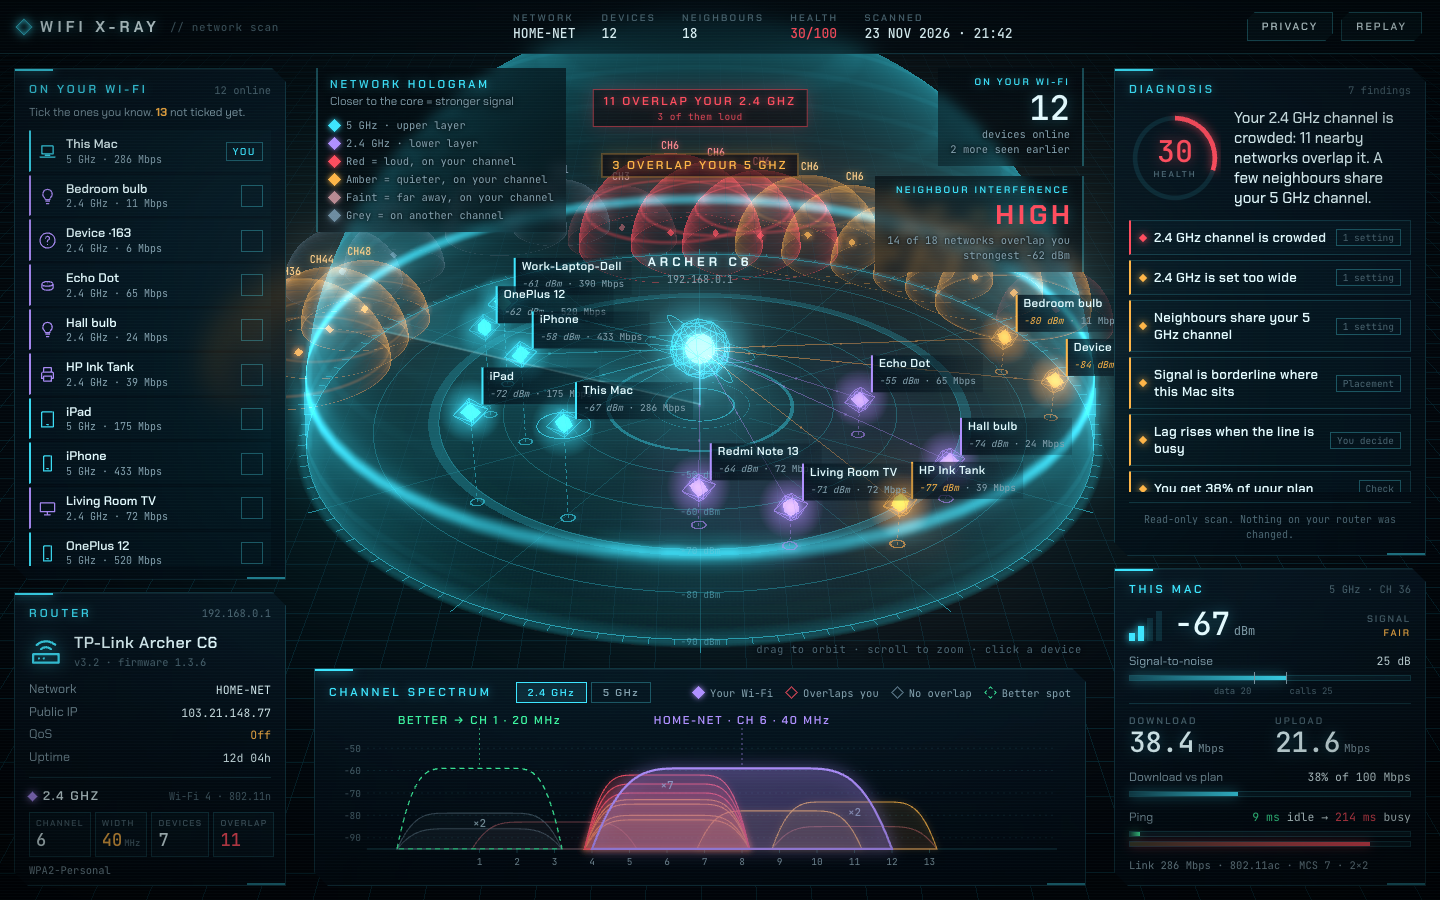
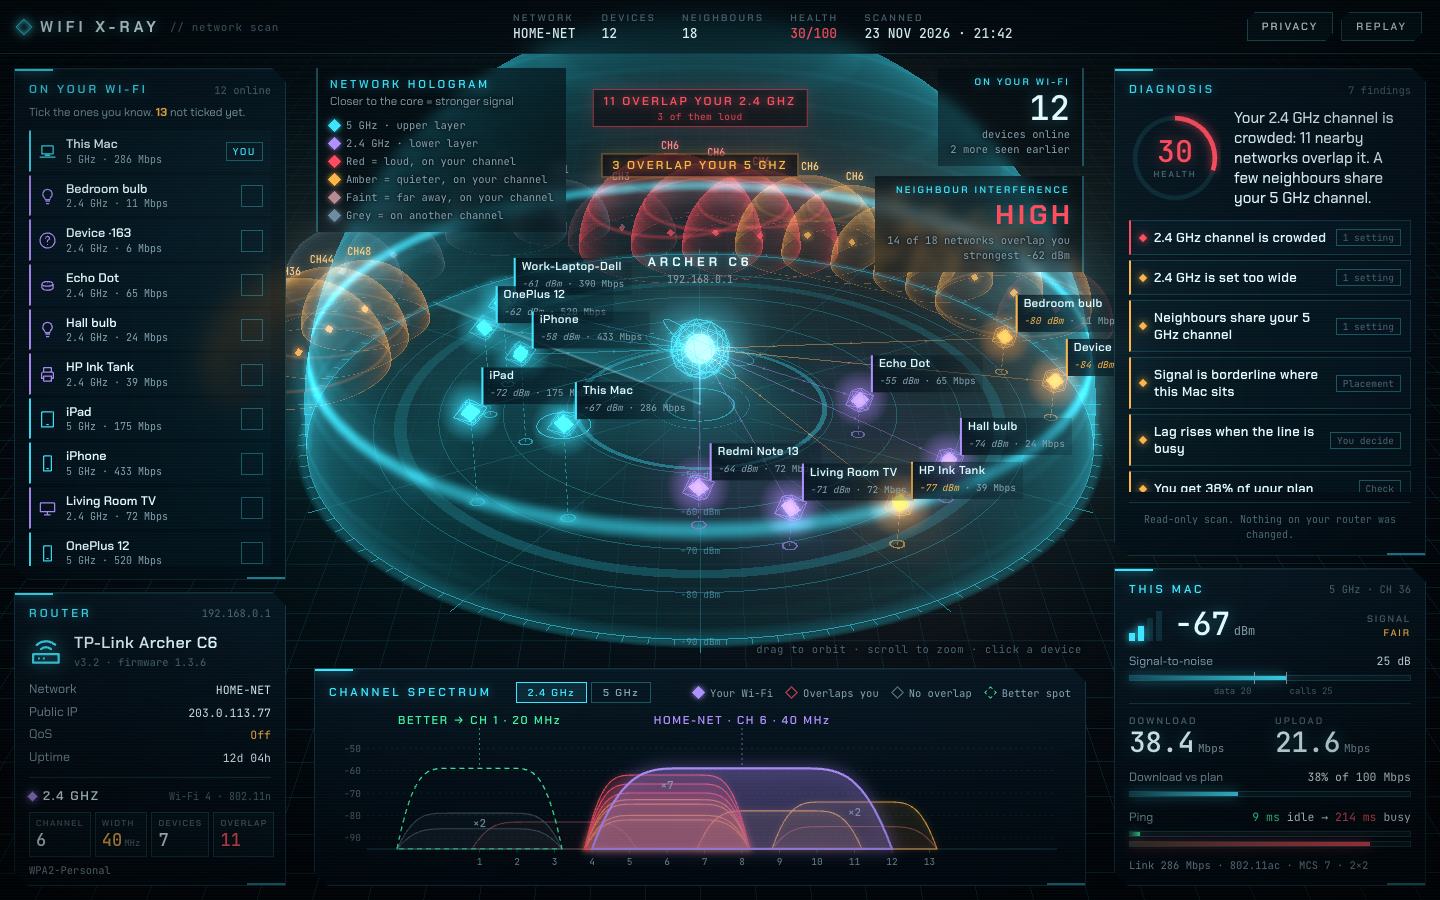
Use reserved example values in the sample network and docs

diff --git a/wifi-xray/references/router-read.md b/wifi-xray/references/router-read.md
@@ -16,7 +16,7 @@ If they would rather paste the text into the chat, or send a screenshot, that wo
 
 | Router | Usual address | Where to click after logging in |
 | --- | --- | --- |
-| TP-Link Archer | 192.168.0.1 | **Clients**, on the first page (Network Map). Tested on an Archer C6 v4. |
+| TP-Link Archer | 192.168.0.1 | **Clients**, on the first page (Network Map). Tested on an Archer C6. |
 | TP-Link (older green pages) | 192.168.0.1 | DHCP → **DHCP Clients List**, or Wireless → **Wireless Statistics** |
 | Jio (JioFiber, AirFiber) | 192.168.29.1 | **Network** → LAN clients, or the device list on the home page |
 | Airtel | 192.168.1.1 | **Connected devices**, or Status → LAN / WLAN clients |

diff --git a/wifi-xray/references/data-format.md b/wifi-xray/references/data-format.md
@@ -63,8 +63,8 @@ What the router's own admin page says. Everything is optional.
 ```json
 {
   "model": "TP-Link Archer C6",
-  "hardware": "v4.0",
-  "firmware": "1.12.10 Build 230208",
+  "hardware": "v3.2",
+  "firmware": "1.3.6 Build 20250412",
   "connection": "PPPoE",
   "wanIp": "100.64.0.10",
   "dhcp": "192.168.0.100 – .249",
